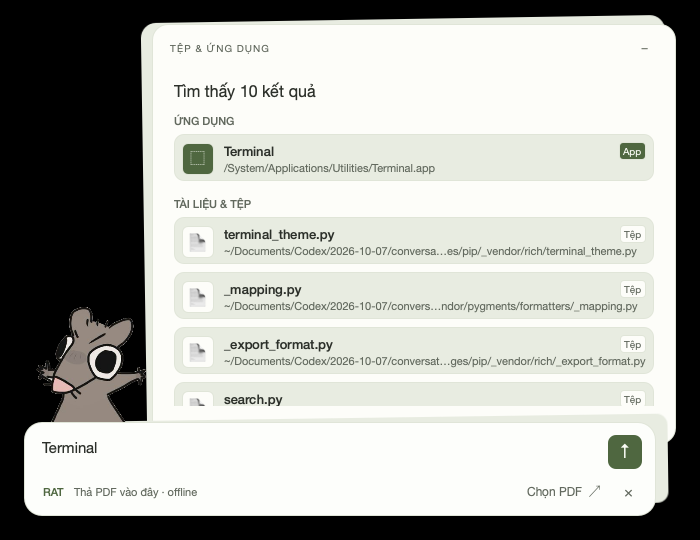
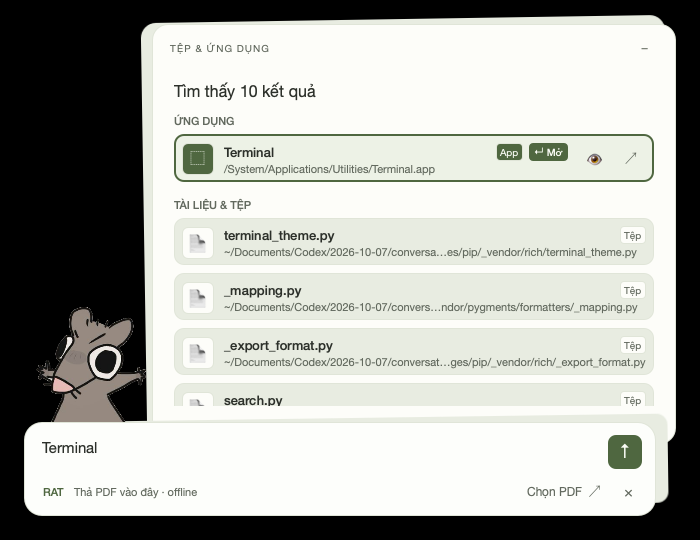
docs(screencaps): showcase spotlight action bar, smart ai card, and context chip

diff --git a/scripts/capture_quick_showcase.py b/scripts/capture_quick_showcase.py
@@ -146,22 +146,47 @@ def build_showcase(output_dir: Path):
     # --- Scene 2: Progressive Finder - App Search ---
     editor.setProperty("text", "Terminal")
     wait_until(lambda: controller.snapshot["view"] == "finder" and len(controller.snapshot["finderHits"]) > 0)
-    save_frame("02_finder_apps.png", "Progressive Finder - Gõ 'Terminal', hiển thị ứng dụng macOS theo thời gian thực")
+    root.setProperty("selectedFinderIndex", 0)
+    QTest.qWait(60)
+    save_frame("02_finder_apps.png", "Progressive Finder - Gõ 'Terminal', phân nhóm ỨNG DỤNG và Thanh hành động đáy")
 
     # --- Scene 3: Progressive Finder - File & PDF ---
     pdf_sample = tmp_scratch / "Quy_che_hoc_vu_2026.pdf"
     write_pdf(pdf_sample, ["Quy che hoc vu Ton Duc Thang 2026. Toi da 24 tin chi hoc ky chinh. Binary search uses log n comparisons."])
-    # Inject a simulated hit into finder for clear display
+    # Inject a simulated hit into finder with section headers
     controller._finder_hits = [
-        {"resource_id": "pdf-1", "kind": "file", "title": "Quy_che_hoc_vu_2026.pdf", "path": str(pdf_sample), "origin": "lexical_index", "snippet": "...Tối đa 24 tín chỉ học kỳ chính...", "is_pdf": True, "bundle_id": ""},
-        {"resource_id": "doc-2", "kind": "file", "title": "Bao_cao_NCKH_2026.docx", "path": "/Users/thundercock2/Documents/Bao_cao_NCKH_2026.docx", "origin": "lexical_index", "snippet": "...Nghiên cứu suy luận đa bước CoT...", "is_pdf": False, "bundle_id": ""},
+        {"resource_id": "pdf-1", "kind": "file", "title": "Quy_che_hoc_vu_2026.pdf", "path": str(pdf_sample), "origin": "lexical_index", "snippet": "...Tối đa 24 tín chỉ học kỳ chính...", "is_pdf": True, "bundle_id": "", "is_first_of_section": True, "section_title": "TÀI LIỆU & TỆP"},
+        {"resource_id": "doc-2", "kind": "file", "title": "Bao_cao_NCKH_2026.docx", "path": "/Users/thundercock2/Documents/Bao_cao_NCKH_2026.docx", "origin": "lexical_index", "snippet": "...Nghiên cứu suy luận đa bước CoT...", "is_pdf": False, "bundle_id": "", "is_first_of_section": False, "section_title": "TÀI LIỆU & TỆP"},
     ]
     controller._view = "finder"
     controller._status = "Tìm thấy 2 kết quả cho 'Quy chế'"
     controller.changed.emit()
     editor.setProperty("text", "Quy chế")
+    root.setProperty("selectedFinderIndex", 0)
     QTest.qWait(60)
-    save_frame("03_finder_files.png", "Progressive Finder - Gõ 'Quy chế', hiển thị tệp PDF & tài liệu cùng nút Đọc/Hỏi")
+    save_frame("03_finder_files.png", "Progressive Finder - Gõ 'Quy chế', phân nhóm TÀI LIỆU & TỆP và Bottom Action Bar")
+
+    # --- Scene 3b: Smart AI Query Card ---
+    controller._finder_hits = []
+    controller._view = "finder"
+    controller._status = "Sẵn sàng gửi câu hỏi suy luận"
+    controller.changed.emit()
+    editor.setProperty("text", "Sao phải dùng mid + 1 trong Binary Search?")
+    QTest.qWait(60)
+    save_frame("03b_smart_ai_card.png", "Spotlight AI Card - Tự động phát hiện câu hỏi tự nhiên và gợi ý suy luận CoT")
+
+    # --- Scene 3c: Active Context Chip ---
+    from rat.engine.selected_pdf import SelectedPDF
+    controller._selection = SelectedPDF(pdf_sample, 15, (0, 0, 0, 0))
+    controller._page = {"page": 1, "content": "Quy che hoc vu"}
+    controller._view = "none"
+    controller._finder_hits = []
+    controller.changed.emit()
+    editor.setProperty("text", "Quy định cảnh báo học vụ thế nào?")
+    root.setProperty("selectedFinderIndex", -1)
+    QTest.qWait(60)
+    save_frame("03c_context_chip.png", "Composer Context Chip - Neo ngữ cảnh tài liệu Quy_che_hoc_vu_2026.pdf")
+    controller.clearActiveContext()
 
     # --- Scene 4: Multi-Turn Reasoning - Turn 1 (DSA Concept) ---
     q1 = "Giải thích binary search bằng ví dụ nhỏ, chưa đưa code vội."
